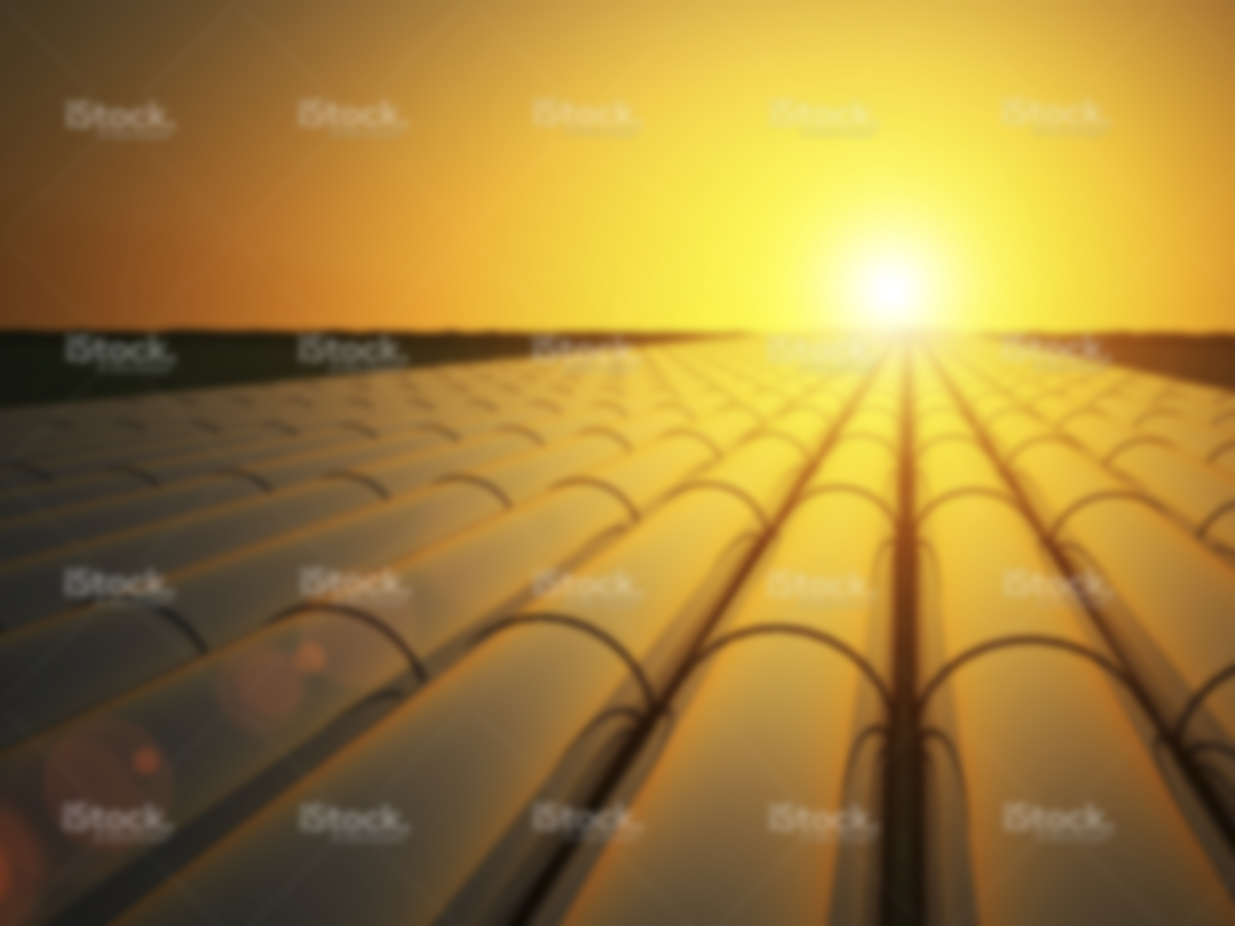
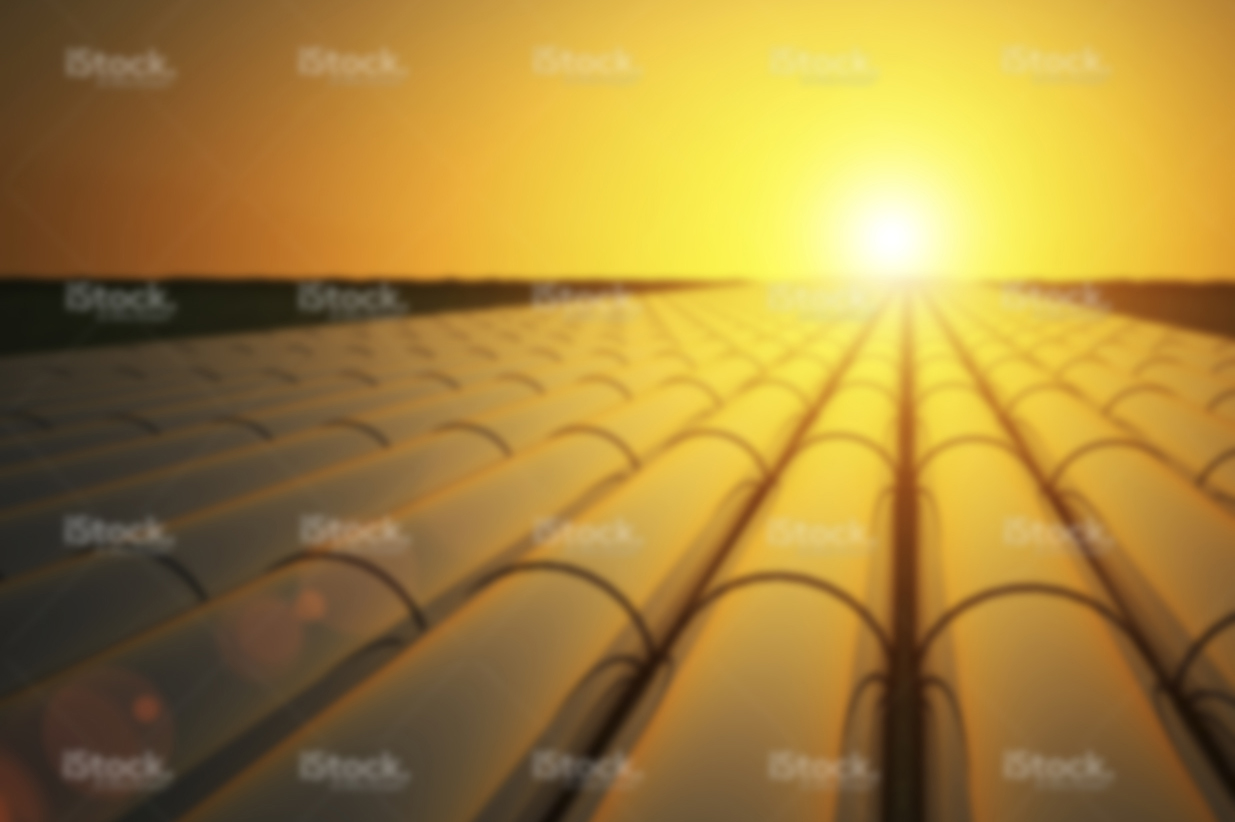
Services - image styles
Update images and css image sizing

diff --git a/app/pages/services/services.html b/app/pages/services/services.html
@@ -14,7 +14,7 @@
 	<form id="order" class="full" action="" method="post" enctype="text/plain">
 		<div class="full" ng-controller="ProductsController as products">
 			<div class="tile content {{service.size}}" ng-repeat="service in products.services | orderBy: ['-cost', 'title']">
-				<img class="middle" ng-src="{{service.image}}"/>
+				<img class="full middle" ng-src="{{service.image}}"/>
 				<div class="center full">
 					<h4>{{service.title}}</h4>
 					<p>{{service.description}}</p>

diff --git a/assets/css/customize.css b/assets/css/customize.css
@@ -151,29 +151,6 @@ form {}
 .form-body {
 	border: 1px solid #ccc;
 }
-.tile {
-	border: 1px solid #fff;
-	position: relative;
-}
-.tile img {
-	height: 200px;
-	background: #ccc;
-}
-.tile:hover,
-.tile:active,
-.tile:focus,
-.tile:checked {}
-.text-box,
-.check-box {
-	color: #fff;
-	height: 100%;
-	padding: 20px;
-	position: absolute;
-	top: 0;
-	left: 0;
-	text-align: center;
-	cursor: pointer;
-}
 .text-box {
 	background: rgba(68,68,68,0.8);
 	display: block;
